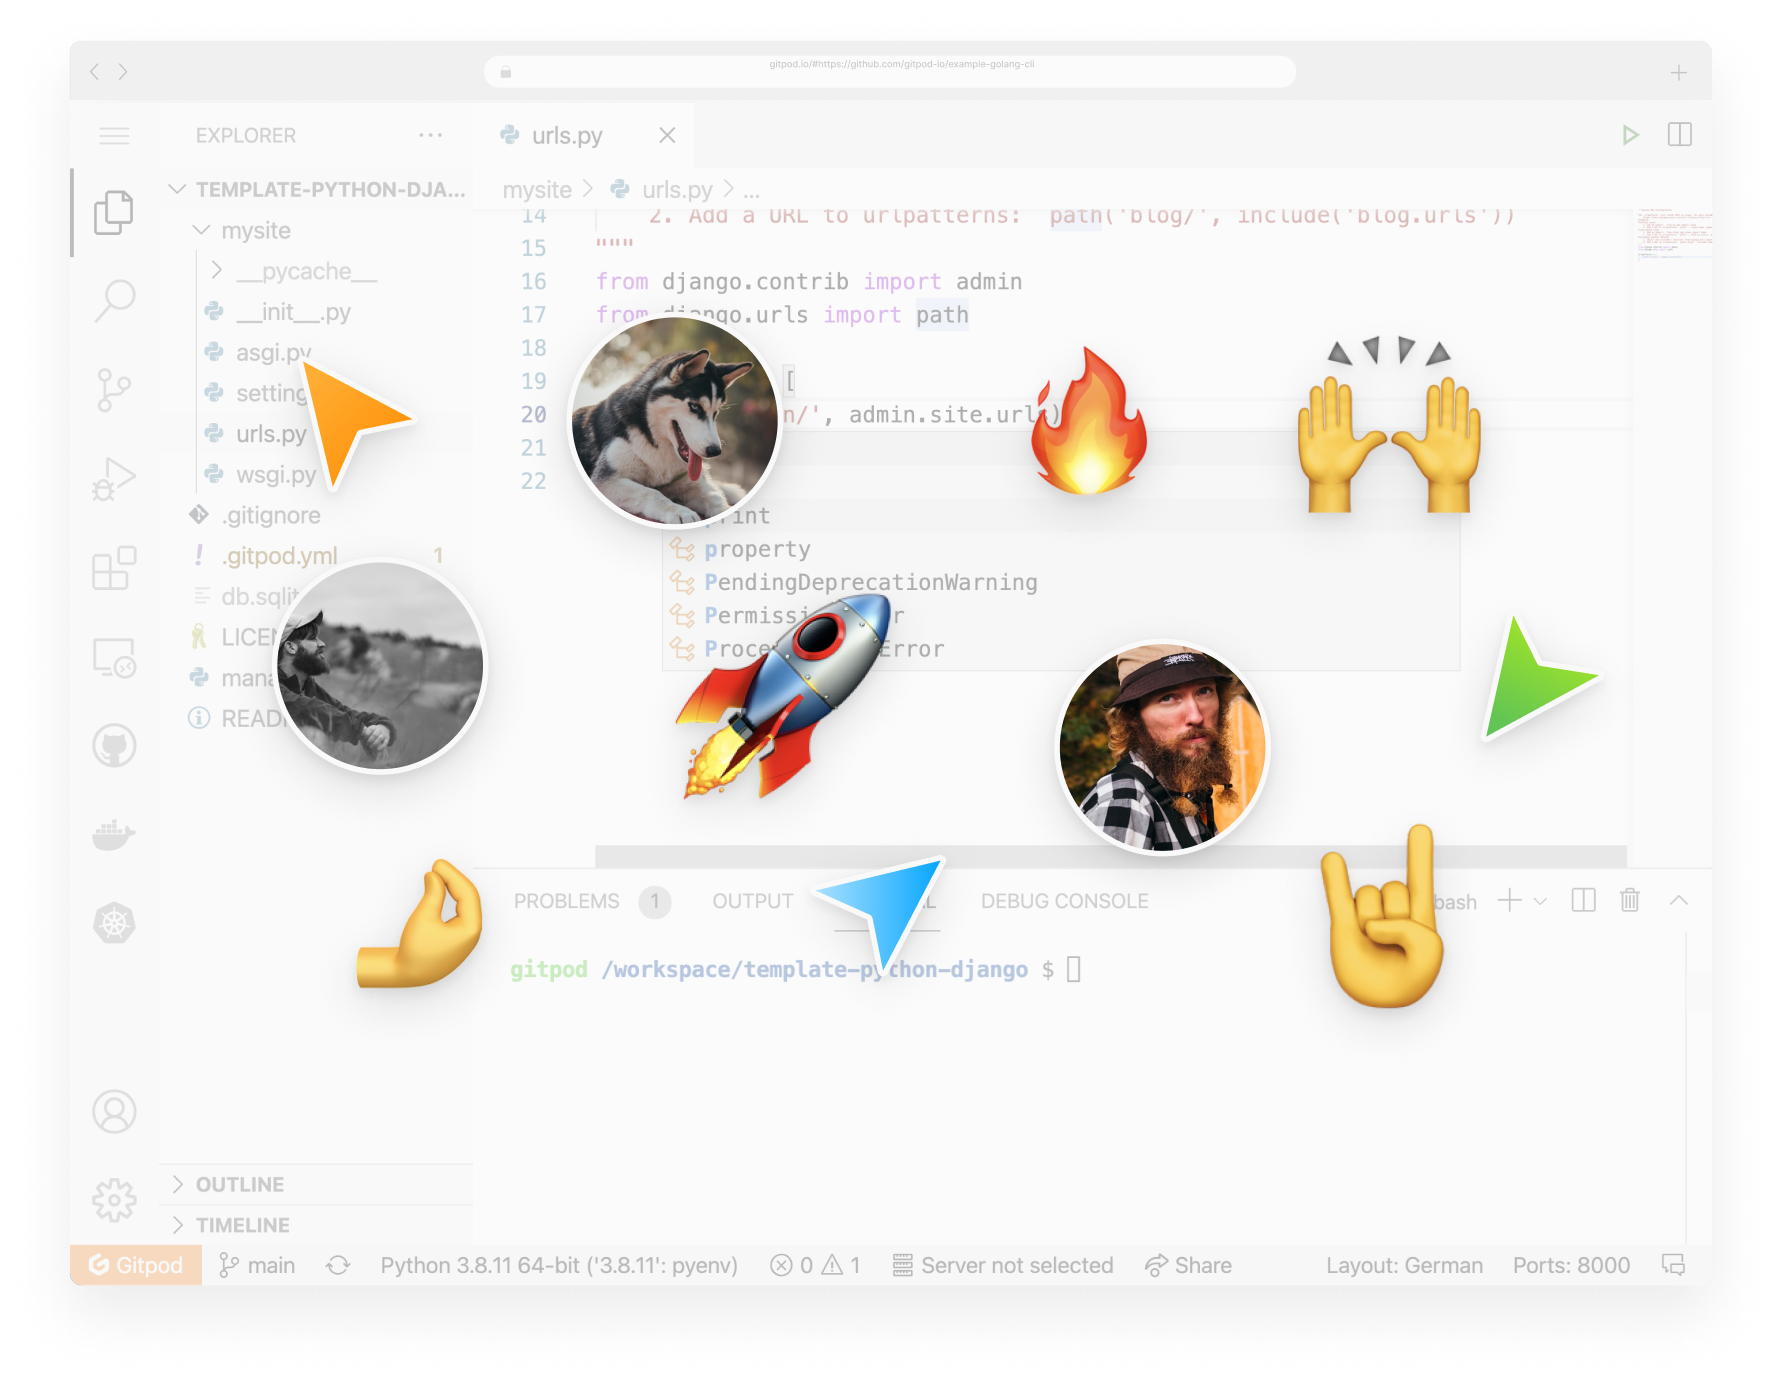
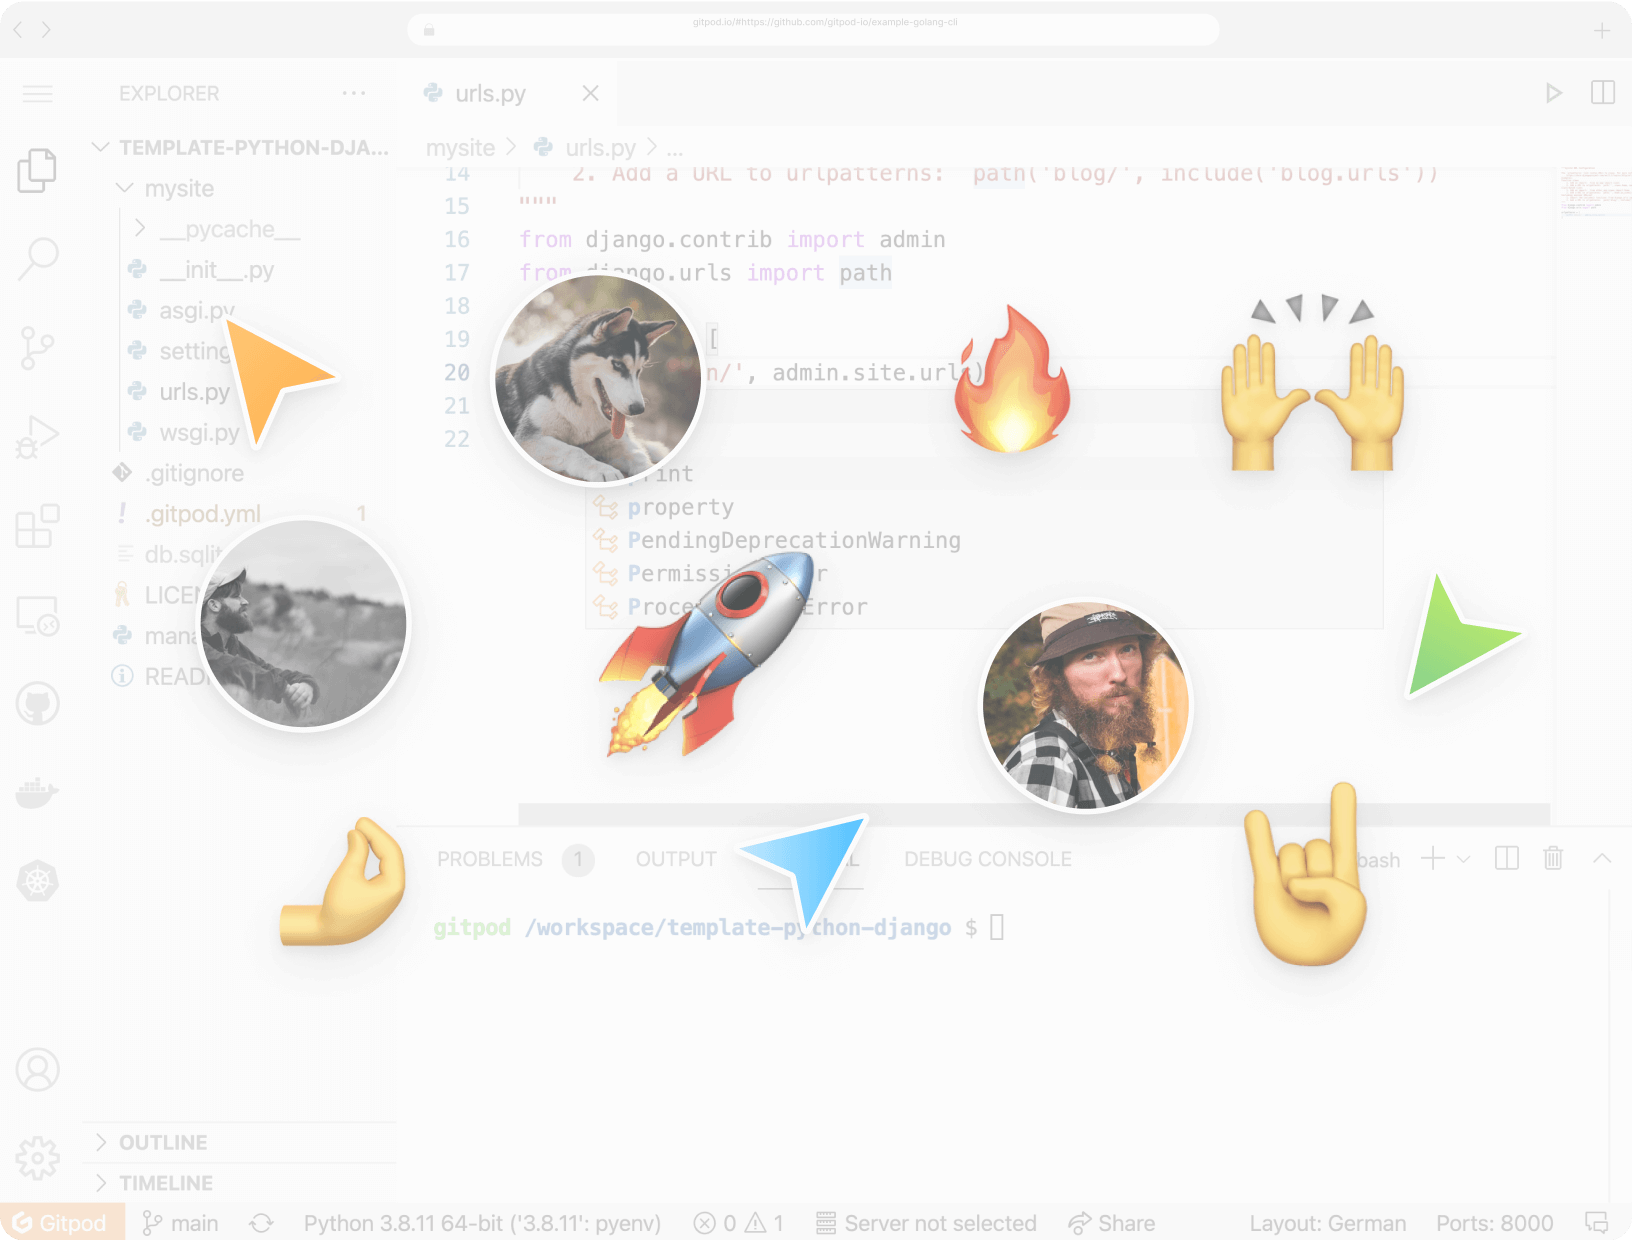
adjust the feature images + spacing on mobile.

diff --git a/src/components/feature.svelte b/src/components/feature.svelte
@@ -28,7 +28,7 @@
   <div
     class="feature grid justify-center items-center md:grid-cols-2 lg:gap-32 gap-small"
   >
-    <div class="my-xx-small md:my-0">
+    <div class="sm:my-micro md:my-0">
       <div class="text-large">
         <h2 class="h3">{title}</h2>
         <p class="mt-micro">{paragraph}</p>
@@ -63,7 +63,7 @@
         <img
           src={image.src}
           alt={image.alt}
-          class={image.classNames}
+          class="{image.classNames} mx-auto"
         />
       {/if}
       {#if previewComponent}

diff --git a/src/contents/home/features.ts b/src/contents/home/features.ts
@@ -61,7 +61,8 @@ export const otherFeatures: Feature[] = [
     },
     image: {
       src: "/images/features/collaboration.png",
-      alt: "Collaboration"
+      alt: "Collaboration",
+      classNames: 'shadow-medium rounded-2xl'
     }
   },
   {
